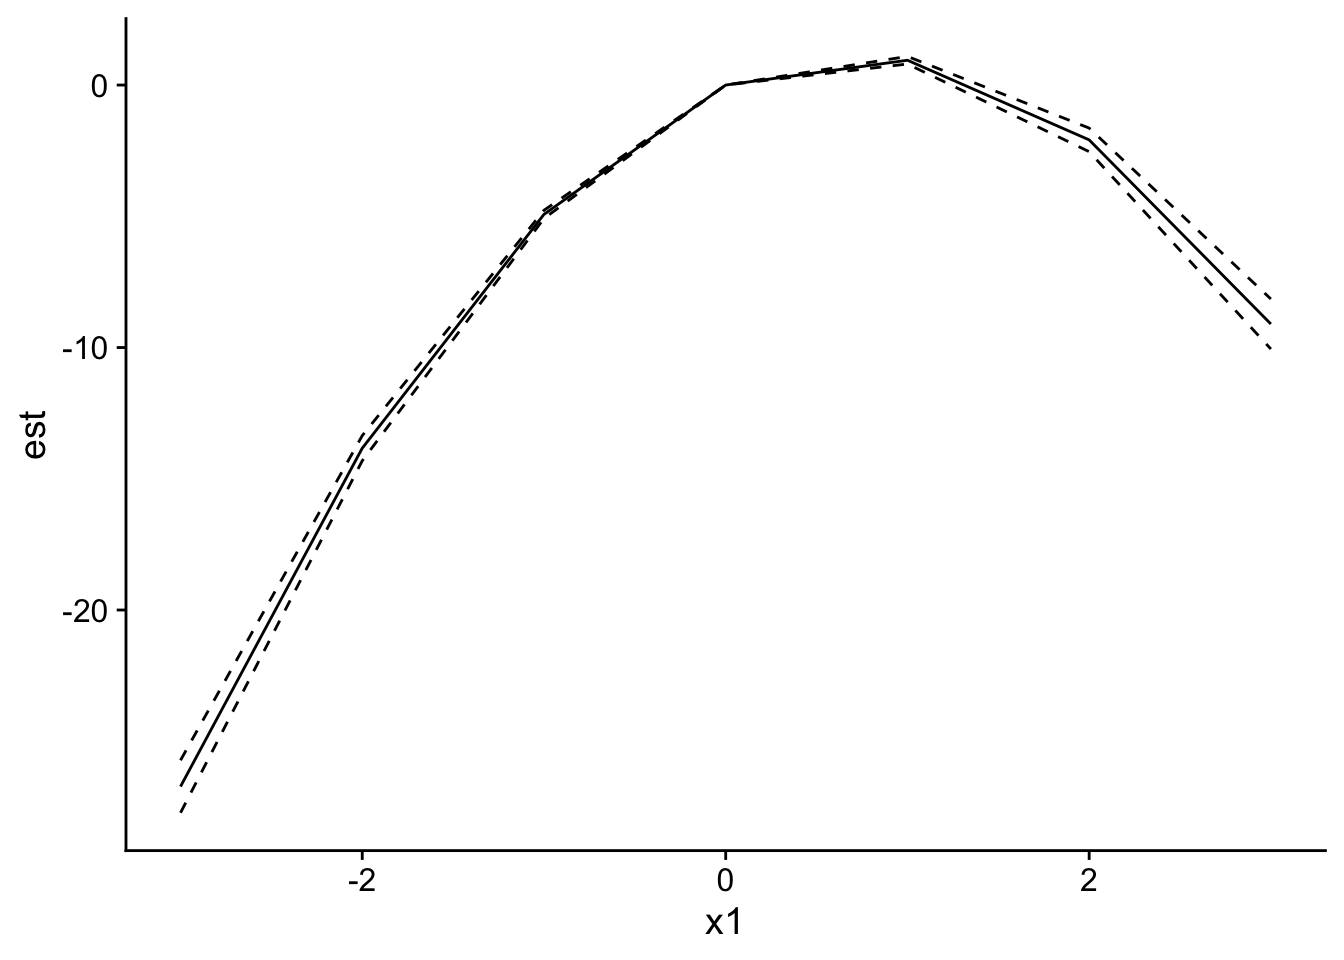
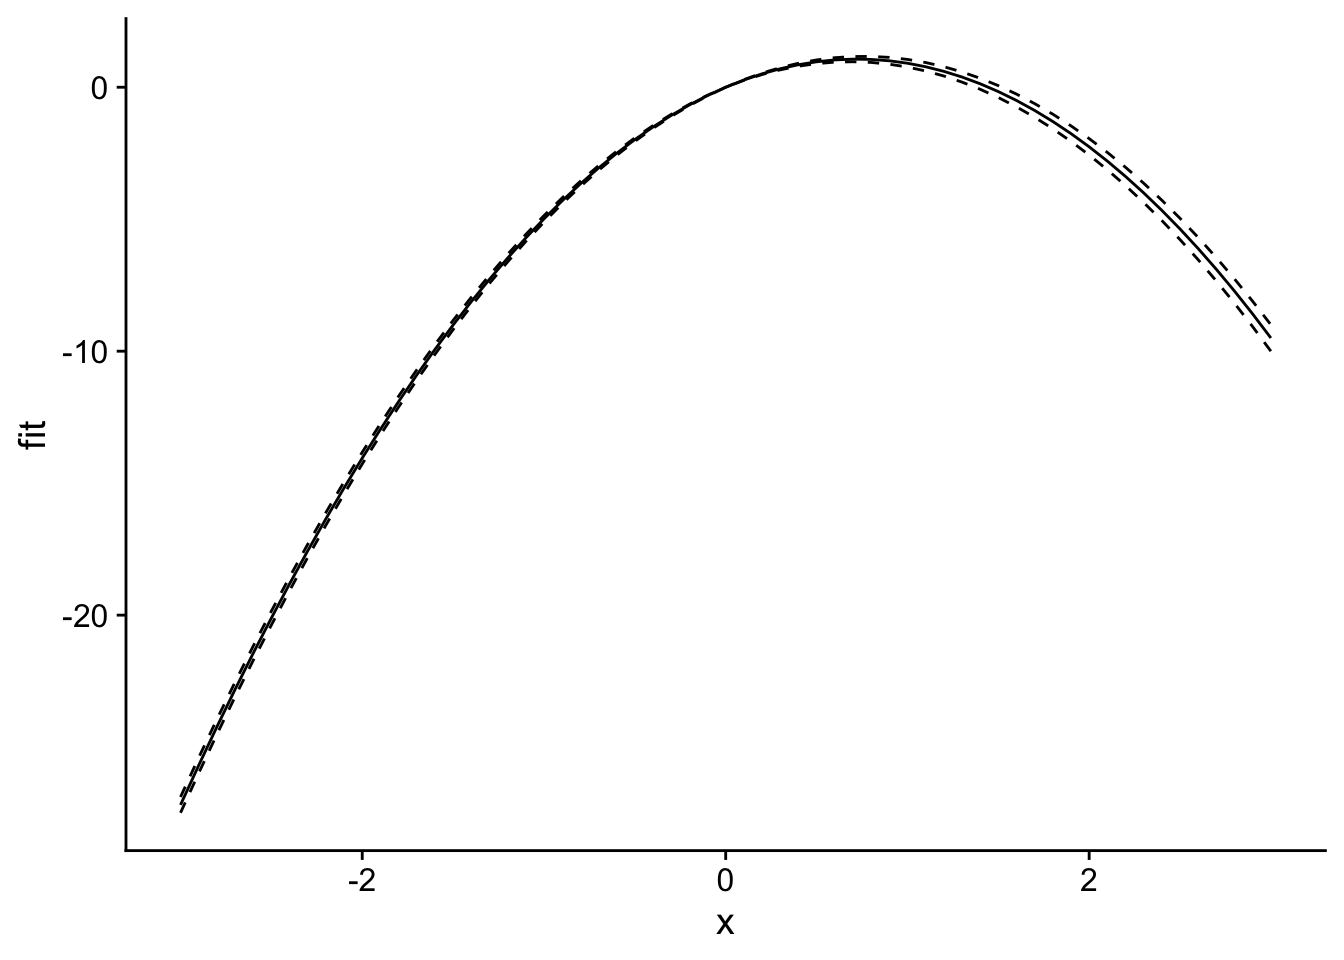
New downsampling post and update to partial

diff --git a/content/blog/2021-01-22-predict-partial.html b/content/blog/2021-01-22-predict-partial.html
@@ -11,6 +11,7 @@ tags:
 <script src="/rmarkdown-libs/header-attrs/header-attrs.js"></script>
 
 
+<p>Update (2021-03-04): I’ve improved the function, and it can now handle any (?) kind of formula you can throw at it.</p>
 <p>In climate economics and in other settings, we often would like to estimate a <strong>response function</strong>, or the outcome as a function of some covariate, i.e., <span class="math inline">\(y = f(T)\)</span>. Most of the time, <span class="math inline">\(T\)</span> stands for temperature. Figure 3 in <a href="https://science.sciencemag.org/content/353/6304/aad9837">Carleton and Hsiang (2016)</a> documents a bunch of different response functions from the literature.</p>
 <div class="figure">
 <img src="https://science.sciencemag.org/content/sci/353/6304/aad9837/F4.large.jpg?width=800&amp;height=600&amp;carousel=1" alt="" />
@@ -24,57 +25,96 @@ This model includes unit fixed effects (<span class="math inline">\(\phi_i\)</sp
 <p>So, we’re basically sunk if we want to plot <span class="math inline">\(\hat{y}\)</span> with standard errors included. But what if we’re just interested in the relationship between <span class="math inline">\(T\)</span> and <span class="math inline">\(y\)</span>, holding all the other controls constant? I.e., what if we just want to plot the response function <span class="math inline">\(f(T)\)</span>? In that case, and assuming a linear-in-parameters model<a href="#fn1" class="footnote-ref" id="fnref1"><sup>1</sup></a>, we only need the vcov for the coefficients related to the variable we’re allowing to change, in this case <span class="math inline">\(T\)</span>.</p>
 <p>To see how this works, consider that a response function is really just the expected value of the outcome across a range of <span class="math inline">\(T\)</span> (say, 0 to 40) minus <span class="math inline">\(\hat{y}\)</span> at a single value of <span class="math inline">\(T\)</span> (say, 20 C). That is, for T = 40, the expected value of</p>
 <p><span class="math display">\[E[y_{it}|T=40] - E[y_{it}|T = 20] = f(T=40; \hat{\beta}) + \phi_i - f(T=20; \hat{\beta}) - \phi_i = f(T=40; \hat{\beta}) - f(T=20; \hat{\beta})\]</span></p>
-<p>As you can see, the fixed effects drop out, so for this linear-in-parameters model at least we don’t need the entire vcov to generate standard errors for each point on the response curve. So far as I know, though, there’s no easy way to run this kind of prediction without a bit of wrangling. Typically, I’ve used <code>survey::svycontrast</code> to do this sort of thing (see <a href="https://www.patrickbaylis.com/blog/2018-04-12-svycontrasts/">here</a>), but it always felt a bit fiddly. So the following code lets us do this kind of partial prediction easily, by just passing the variables we want to predict over.</p>
+<p>As you can see, the fixed effects drop out, so for this linear-in-parameters model at least we don’t need the entire vcov to generate standard errors for each point on the response curve. So far as I know, though, there’s no easy way to run this kind of prediction without a bit of wrangling. Typically, I’ve used <code>survey::svycontrast</code> to do this sort of thing (see <a href="https://www.patrickbaylis.com/blog/2018-04-12-svycontrasts/">here</a>), but it always felt a bit fiddly. So the following code lets us do this kind of partial prediction easily, by just passing the variables we want to predict over.<a href="#fn2" class="footnote-ref" id="fnref2"><sup>2</sup></a></p>
 <pre class="r"><code>library(fixest)
 library(ggplot2)
 library(cowplot)
 
-N &lt;- 100
-df &lt;- data.frame(x1 = rnorm(N), x2 = rnorm(N))
-df$y &lt;- 1 + 3 * df$x1 - 2 * df$x2 + rnorm(N, 0, 0.5)
-
-fit &lt;- feols(y ~ x1 + x2, data = df)
-
-predict_partial &lt;- function(fit, newdata) {
-    # Compute XB for Xs provided in newdata
-    # Note: Will not work for variables created via on the fly via formula (e.g., x:y, I(x^2), x^y) 
-    X &lt;- as.matrix(newdata[, names(newdata) %in% names(coef(fit))])
+predict_partial &lt;- function(object, newdata, se.fit = FALSE,
+                            interval = &quot;none&quot;,
+                            level = 0.95){
+    if(missing(newdata)) {
+        stop(&quot;predict_partial requires newdata and predicts for all group effects = 0.&quot;)
+    }
     
-    # Get indices of variables that we&#39;ll use from the fit
-    i &lt;- which(names(coef(fit)) %in% colnames(X))
-    B &lt;- coef(fit)[i]
-    sigma &lt;- vcov(fit)[i, i]
+    object &lt;- fit_feols; newdata &lt;- newdata; se.fit = T; interval = &quot;confidence&quot;; level = 0.95
     
-    # Compute 
-    est &lt;- as.vector(X %*% B)
-    se &lt;- apply(X, MARGIN = 1, FUN = get_se, sigma = sigma)
-    # There is maybe a smarter matrix algebra way to do this? 
+    # Extract terms object, removing response variable 
+    tt &lt;- terms(object)
+    Terms &lt;- delete.response(tt)
     
-    list(est = est, se = se)
+    # Remove intercept
+    attr(Terms, &quot;intercept&quot;) &lt;- 0
+    
+    X &lt;- model.matrix(Terms, data = newdata)
+    
+    if (class(object) == &quot;fixest&quot;) {
+        B &lt;- as.numeric(coef(object))
+        df &lt;- attributes(vcov(fit_feols, attr = T))$dof.K
+    } else if (class(object) %in% c(&quot;lm&quot;, &quot;felm&quot;)) { 
+        B &lt;- as.numeric(object$coef)
+        df &lt;- object$df.residual
+    } else {
+        stop(&quot;class(object) should be lm, fixest, or felm.&quot;)
+    }
+    
+    fit &lt;- data.frame(fit = as.vector(X %*% B))
+    
+    if(se.fit | interval != &quot;none&quot;) {
+        sig &lt;- vcov(object)
+        se &lt;- apply(X, MARGIN = 1, FUN = get_se, sig = sig)
+    }
+    
+    if(interval == &quot;confidence&quot;){
+        t_val &lt;- qt((1 - level) / 2 + level, df = df)
+        fit$lwr &lt;- fit$fit - t_val * se
+        fit$upr &lt;- fit$fit + t_val * se
+    } else if (interval == &quot;prediction&quot;){
+        stop(&quot;interval = \&quot;prediction\&quot; not yet implemented&quot;)
+    }
+    if(se.fit){
+        return(list(fit=fit, se.fit = se))
+    } else {
+        return(fit)
+    }
 }
 
-get_se &lt;- function(r, sigma) {
+get_se &lt;- function(r, sig) {
     # Compute linear combination, helper function for predict_partial
-    # Given numeric vector r (the constants) and vcov sigma (the ), compute SE 
+    # Given numeric vector r (the constants) and vcov sig (the ), compute SE 
     r &lt;- matrix(r, nrow = 1)
-    sqrt(r %*% sigma %*% t(r))
+    sqrt(r %*% sig %*% t(r))
 }
 
-newdata &lt;- data.frame(x1 = seq(-3, 3, 1))
-newdata$x2 &lt;- newdata$x^2
+N &lt;- 100
+data &lt;- data.frame(x = rnorm(N), group = rep(c(&quot;A&quot;, &quot;B&quot;), times = N/2))
+data$y &lt;- 1 + 3 * data$x - 2 * data$x^2 + rnorm(N, 0, 0.5) + as.numeric(data$group == &quot;A&quot;) * 3
 
-plot_df &lt;- cbind(newdata, as.data.frame(predict_partial(fit, newdata)))
+fit_feols &lt;- feols(y ~ x + I(x^2) | group, data = data)
 
-ggplot(plot_df, aes(x = x1, y = est)) + 
+newdata &lt;- data.frame(x = seq(-3, 3, 0.1))
+preds &lt;- predict_partial(fit_feols, newdata, se.fit = T, interval = &quot;confidence&quot;)
+
+plot_df &lt;- cbind(newdata, preds$fit)
+
+ggplot(plot_df, aes(x = x, y = fit)) + 
     geom_line() +
-    geom_line(aes(y = est - se * 1.96), linetype = &quot;dashed&quot;) + 
-    geom_line(aes(y = est + se * 1.96), linetype = &quot;dashed&quot;) + 
+    geom_line(aes(y = lwr), linetype = &quot;dashed&quot;) + 
+    geom_line(aes(y = upr), linetype = &quot;dashed&quot;) + 
     theme_cowplot()</code></pre>
 <p><img src="/blog/2021-01-22-predict-partial_files/figure-html/unnamed-chunk-1-1.png" width="672" /></p>
-<p>This bears more explanation, but I’m out of time for the day.</p>
+<p>Note that this function also works with <code>lm</code> and <code>felm</code>, though there’s little reason to use it for <code>lm</code> given that <code>predict.lm</code> works (and provides more functionality).</p>
+<pre class="r"><code>fit_lm &lt;- lm(y ~ x + I(x^2), data = data)
+preds_lm &lt;- predict_partial(fit_lm, newdata, se.fit = T, interval = &quot;confidence&quot;)
+library(lfe)</code></pre>
+<pre><code>## Loading required package: Matrix</code></pre>
+<pre class="r"><code>fit_felm &lt;- felm(y ~ x + I(x^2), data = data)
+preds_felm &lt;- predict_partial(fit_felm, newdata, se.fit = T, interval = &quot;confidence&quot;)</code></pre>
+<p>In any case, I’m happy to finally close this issue, given that it’s been on my mind for <a href="https://stackoverflow.com/questions/30491545/predict-method-for-felm-from-lfe-package">almost six years</a>.</p>
 <div class="footnotes">
 <hr />
 <ol>
 <li id="fn1"><p>I’m not actually sure we need to assume this, but someone smarter than me can work out the math of what we could do in the non-linear-in-parameters case.<a href="#fnref1" class="footnote-back">↩</a></p></li>
+<li id="fn2"><p>This code borrows from code written by Kenny Bell in this StackOverflow <a href="https://stackoverflow.com/questions/30491545/predict-method-for-felm-from-lfe-package">post</a>.<a href="#fnref2" class="footnote-back">↩</a></p></li>
 </ol>
 </div>

diff --git a/content/blog/2021-03-13-downsampling-magic.html b/content/blog/2021-03-13-downsampling-magic.html
@@ -1,0 +1,65 @@
+---
+title: "The magic of downsampling"
+layout: post
+date: '2021-03-31'
+categories: raster, maps
+tags:
+- r
+- maps
+---
+
+<script src="/rmarkdown-libs/header-attrs/header-attrs.js"></script>
+
+
+<p>It’s time for another mapping post! For a recent project, I wanted to plot some <strong>very</strong> highly resolved raster data with <code>ggplot2</code>, but I ran into a hiccup. In case it’s useful to someone else, here’s what I learned.</p>
+<p>First, some setup:</p>
+<pre class="r"><code>library(terra) # Raster package, successor to raster
+library(tidyverse) # Data manipulation and visualization (includes ggplot2)
+library(sf) # Spatial work
+library(cowplot) # theme_map
+library(rnaturalearth) # World shapefile
+
+knitr::opts_knit$set(message = F, warning = F, cache = T)
+
+theme_set(theme_map()) # We&#39;re only going to be making maps, so just set the theme here.</code></pre>
+<p>Note that I load the new-ish <a href="https://rspatial.org/terra/pkg/index.html"><code>terra</code></a> rather than the usual, and now venerable, <a href="https://www.rdocumentation.org/packages/raster/"><code>raster</code></a> package. <code>terra</code> is the successor to <code>raster</code>, and in general it’s much, much faster (because its written in C++). But everything I do below with <code>terra</code> could be done with <code>raster</code> instead.</p>
+<p>For this exercise, we’ll use the Natural Earth II (downloaded <a href="https://www.naturalearthdata.com/downloads/10m-raster-data/10m-natural-earth-2/">here</a> and described in detail <a href="http://www.shadedrelief.com/natural2/index.html">here</a>). It’s a raster of what the earth might look like without humans. Hopefully not a projection. It’s a 1:10m, world-wide raster, which means that each cell represents a very small chunk of the earth. So there are a <strong>LOT</strong> of chunks. More than 230 million to be exact.</p>
+<p>First, we’ll load the raster and try to plot it. Will it work?</p>
+<pre class="r"><code>tr &lt;- terra::rast(&quot;~/Downloads/large-raster/NE2_HR_LC/NE2_HR_LC.tif&quot;)[[1]]
+plot(tr)</code></pre>
+<p><img src="/blog/2021-03-13-downsampling-magic_files/figure-html/load-raster-1.png" width="672" /></p>
+<p>Wow, looks great! And it plotted in less than a second. How did <code>plot</code> (actually <code>terra::plot</code>) display hundreds of millions of pieces of information so quickly? It didn’t, it turns out. Through the magic of <strong>downsampling</strong> (or aggregating, or downscaling, or …), the function cleverly takes averages over larger areas, effectively creating a coarser raster with fewer cells. This makes no difference visually, since neither the human eye nor your monitor is capable of detecting or displaying the differences between the very tiny cells represented by the true data at this scale. So what is downsamping actually doing? Borrowing a visual from <a href="https://www.onestopgis.com/GIS-Theory-and-Techniques/Raster-Data-Analysis/Other-Raster-Data-Operations/2-Raster-Data-Operation-Generalization.html">here</a>.</p>
+<div class="figure">
+<img src="/img/downsampling-ex.png" style="width:80.0%" alt="" />
+<p class="caption"><a href="OneStopGIS.com">https://www.onestopgis.com/</a></p>
+</div>
+<p>You can think of the downsampling operation as converting a high-resolution raster like (a), above, into (b) by taking some summary (above, a mean) over sets of cells. By summarizing many cells into fewer cells, it leaves <code>plot</code> with a lot less work to do.</p>
+<p>But, let’s say you’ve taken great pains to produce all of your other figures using the consistent visual styling offered by <a href="https://ggplot2.tidyverse.org/"><code>ggplot2</code></a>. You might feel inexplicably compelled to try to want to plot this map using <code>ggplot</code> as well. Fortunately, this is doable, at least in principle: you can simply convert, or “fortify”, the raster to <code>data.frame</code> that <code>ggplot</code> can use. Here’s how we would do that:</p>
+<pre class="r"><code># tr_df &lt;- as.data.frame(tr, xy = T)
+# nrow(tr_df) </code></pre>
+<p>Why is that commented out? Because it takes a long time (and screws up my <code>knitr</code> process). What happened? Remember those 230m+ cells? If we fortify that raster, it becomes a massive, 230 <em>million</em> row <code>data.frame</code>. This is a big problem, because <code>ggplot</code> is not going to be able to plot all of these in a reasonable amount of time (take my word for it…).</p>
+<p>So what can we do? One option is to take a page out of the <code>terra</code> playbook and downsample ourselves. We’ll use the function <code>terra::aggregate</code> with a factor of 10 both horizontally and vertically, which should reduce the total cells by a factor of 100.</p>
+<pre class="r"><code>tr_a &lt;- terra::aggregate(tr, fact = 10)
+tr_a_df &lt;- as.data.frame(tr_a, xy = T)
+nrow(tr_a_df)</code></pre>
+<pre><code>## [1] 2332800</code></pre>
+<p>Now we have 2 rather than 233 million rows. This is a lot, but actually well within the capabilities of <code>ggplot2::geom_raster</code>. Let’s take a look:</p>
+<pre class="r"><code>ggplot(tr_a_df, aes(x = x, y = y, fill = NE2_1)) + 
+  geom_raster() + 
+  scale_fill_viridis_c(direction = -1)</code></pre>
+<p><img src="/blog/2021-03-13-downsampling-magic_files/figure-html/rast-ggplot-1.png" width="672" /></p>
+<p>To see how this can be useful, we’ll download a shapefile of the countries of the world.</p>
+<pre class="r"><code>world &lt;- rnaturalearth::ne_countries(scale = &quot;small&quot;, returnclass = &quot;sf&quot;)
+ggplot(world) + geom_sf()</code></pre>
+<p><img src="/blog/2021-03-13-downsampling-magic_files/figure-html/world-shp-1.png" width="672" /></p>
+<p>Next, we’ll reproject the raster to the same projection as as the world shapefile and aggregate and fortify again.</p>
+<pre class="r"><code>tr_p &lt;- terra::project(tr, st_crs(world)$proj4string)
+tr_p_a &lt;- terra::aggregate(tr_p, fact = 10)
+tr_p_a_df &lt;- as.data.frame(tr_p_a, xy = T)</code></pre>
+<p>And plot, this time with country boundaries.</p>
+<pre class="r"><code>ggplot(world) + 
+  geom_raster(data = tr_p_a_df, mapping = aes(x = x, y = y, fill = NE2_1)) + 
+  geom_sf(colour = alpha(&quot;white&quot;, 0.5), fill = NA) + 
+  scale_fill_viridis_c(direction = -1)</code></pre>
+<p><img src="/blog/2021-03-13-downsampling-magic_files/figure-html/plot-boundaries-1.png" width="672" /></p>
+<p>Converting the raster into a <code>ggplot</code>-compatible object opens up a whole world of visualization, but we’ll stop here for now. I hope this has given you a sense for how to smoothly integrate large spatial rasters with your usual <code>ggplot2</code> and <code>sf</code> spatial work. Happy mapping!</p>
